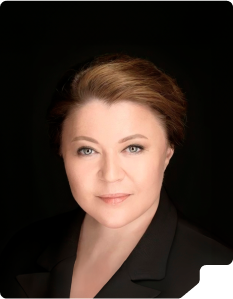
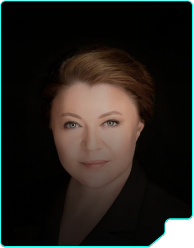
fix: team

diff --git a/src/sections/TeamAdvisors/data.ts b/src/sections/TeamAdvisors/data.ts
@@ -60,27 +60,13 @@ export const team: teamType[] = [
         icon: '/team/icon.png',
         name: 'Yulia',
         role: 'Head of Family Office',
-        subRole: 'TBC',
+        subRole: 'Chief Operations Officer',
         linkedin: 'https://www.linkedin.com/in/yulia-tbc/',
         isBigIcon: false,
         info: [
-            "Yulia is currently the Head of a Family Office, managing investments across media, technology, and FMCG sectors, based in Dubai.",
-            "As Deputy CFO at EuroChem, she managed cross-functional projects that attracted over $50 million annually and achieved savings of approximately $90 million.",
-            "At T1 Group, she built a tax and risk management function from scratch, helping save over $100 million in taxes."
-        ]
-    },
-    {
-        image: '/team/kacper.png',
-        icon: '/team/icon.png',
-        name: 'Kacper',
-        role: 'Senior Social Media Manager',
-        subRole: 'Community Manager',
-        linkedin: 'https://www.linkedin.com/in/hoffmannk96/',
-        isBigIcon: false,
-        info: [
-            "Kacper is currently a Senior Social Media Manager at One Agency Media, leading a team and developing strategies for various platforms, including Twitter, Instagram, and LinkedIn.",
-            "He has extensive experience managing teams, including overseeing 8 Social Media Executives and guiding their work to boost engagement and visibility for brands.",
-            'Kacper holds a verified certificate in "Blockchain and Web3" and actively applies his knowledge to help brands within the crypto space boost their digital presence and engage with blockchain-focused communities.'
+            "A financial executive with 18+ years of experience, specializing in financial transformation, tax strategy, and risk management.",
+            "As Deputy CFO at EuroChem and several technological companies, she led projects across 50+ international companies, securing up to $50M in financing annually and achieving $100M in savings.",
+            "During her 16 years at Deloitte, Yulia built strategic partnerships with major clients like Yandex and Coca-Cola, driving financial efficiency and growth across global markets."
         ]
     },
     {

diff --git a/src/sections/TeamAdvisors/mobile/mocdata.tsx b/src/sections/TeamAdvisors/mobile/mocdata.tsx
@@ -64,28 +64,14 @@ export const team: TeamPerson[] = [
     icon: "/team/icon.png",
     name: "Yulia",
     role: "Head of Family Office",
-    subRole: "TBC",
+    subRole: 'Chief Operations Officer',
     linkedin: "https://www.linkedin.com/in/yulia-tbc/",
     isBigIcon: false,
     info: [
-      "Yulia is currently the Head of a Family Office, managing investments across media, technology, and FMCG sectors, based in Dubai.",
-      "As Deputy CFO at EuroChem, she managed cross-functional projects that attracted over $50 million annually and achieved savings of approximately $90 million.",
-      "At T1 Group, she built a tax and risk management function from scratch, helping save over $100 million in taxes.",
-    ],
-  },
-  {
-    image: "/team/kacper.png",
-    icon: "/team/icon.png",
-    name: "Kacper",
-    role: "Senior Social Media Manager",
-    subRole: "Community Manager",
-    linkedin: "https://www.linkedin.com/in/hoffmannk96/",
-    isBigIcon: false,
-    info: [
-      "Kacper is currently a Senior Social Media Manager at One Agency Media, leading a team and developing strategies for various platforms, including Twitter, Instagram, and LinkedIn.",
-      "He has extensive experience managing teams, including overseeing 8 Social Media Executives and guiding their work to boost engagement and visibility for brands.",
-      'Kacper holds a verified certificate in "Blockchain and Web3" and actively applies his knowledge to help brands within the crypto space boost their digital presence and engage with blockchain-focused communities.',
-    ],
+      "A financial executive with 18+ years of experience, specializing in financial transformation, tax strategy, and risk management.",
+      "As Deputy CFO at EuroChem and several technological companies, she led projects across 50+ international companies, securing up to $50M in financing annually and achieving $100M in savings.",
+      "During her 16 years at Deloitte, Yulia built strategic partnerships with major clients like Yandex and Coca-Cola, driving financial efficiency and growth across global markets."
+  ],
   },
   {
     image: "/team/rafal.png",

diff --git a/src/sections/TeamAdvisors/TeamAdvisors.module.scss b/src/sections/TeamAdvisors/TeamAdvisors.module.scss
@@ -130,6 +130,10 @@
             opacity: 0.7;
         }
     }
+
+    @media screen and (min-width: 1600px) {
+        display: none;
+    }
 }
 
 .advisor {
@@ -166,7 +170,7 @@
 }
 
 .lightPerson {
-    box-shadow: inset 3em 3em 5em 3em rgba(0, 0, 0, 0.7), 0px 0px 15px 5px rgba(14, 118, 168, 0.3);
+    box-shadow: inset 3em 3em 5em 3em rgba(0, 0, 0, 0.7);
 }
 
 .bigIcon {
@@ -229,10 +233,10 @@
 .name {
     color: var(--white-head-text, #F0F0F0);
     font-family: "Inter Tight";
-    font-size: 12px;
+    font-size: 10px;
     font-style: normal;
     font-weight: 400;
-    line-height: 120%;
+    line-height: 11.93px;
     text-shadow: 1px 1px 2px rgba(0, 0, 0, 0.7);
 }
 

diff --git a/src/sections/FeaturedIn/FeaturedIn.module.scss b/src/sections/FeaturedIn/FeaturedIn.module.scss
@@ -48,6 +48,8 @@
     img {
       width: 150px;
       height: 30px;
+    object-position: bottom;
+object-fit: contain;
     }
   }
 }
